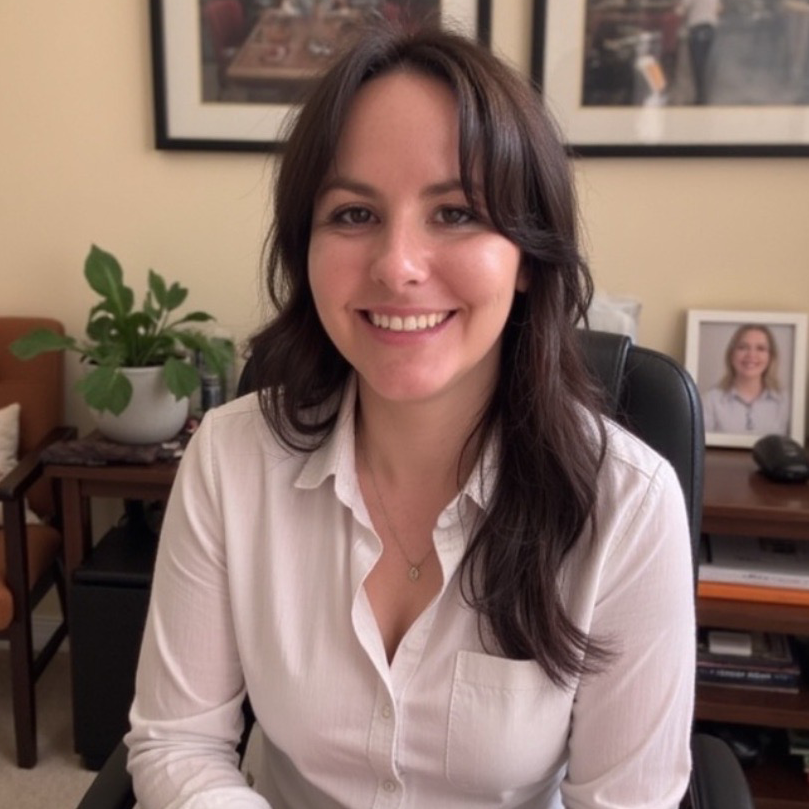
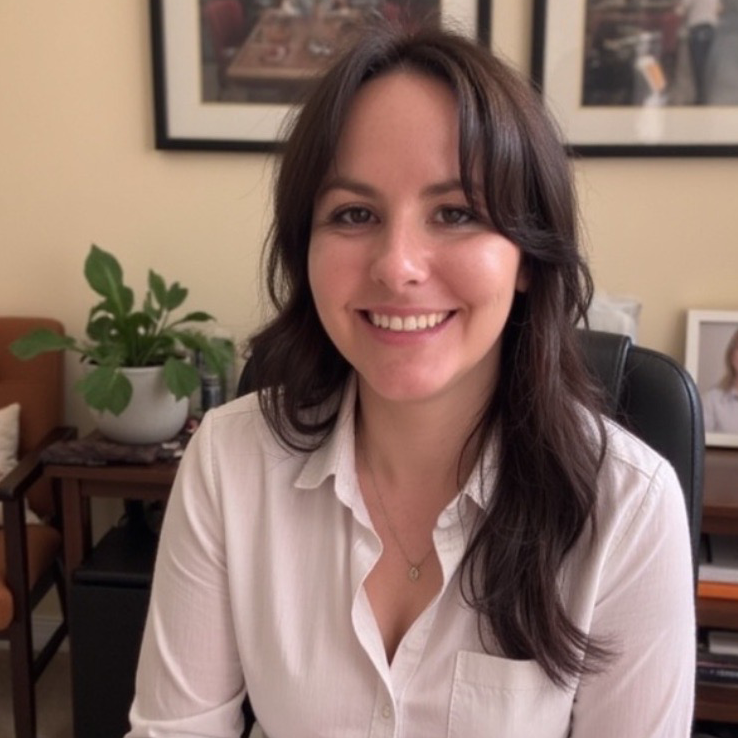
change portrait to be cropped and a circle instead of rounded square, update css with new class name and remove the old one

diff --git a/css/style.css b/css/style.css
@@ -249,12 +249,6 @@ section {
   align-items: center;
 }
 
-.about-image img {
-  width: 100%;
-  border-radius: 1rem;
-  box-shadow: 0 4px 6px rgba(0, 0, 0, 0.1);
-}
-
 .about-text h2 {
   font-size: 2rem;
   margin-bottom: 1.5rem;
@@ -652,10 +646,6 @@ section {
     font-size: 2rem;
   }
 
-  .about-image {
-    max-width: 300px;
-    margin: 0 auto;
-  }
 }
 
 @media (max-width: 480px) {
@@ -671,4 +661,21 @@ section {
   .blog-grid {
     grid-template-columns: 1fr;
   }
+}
+
+.portrait {
+  width: 400px;
+  height: 400px;
+  margin: 0 auto 3rem;
+  display: block;
+  box-shadow: 0 4px 6px rgba(0, 0, 0, 0.1);
+  border-radius: 50%;
+  overflow: hidden;
+}
+
+.portrait img {
+  width: 100%;
+  height: 100%;
+  object-fit: cover;
+  border-radius: 50%;
 }

diff --git a/index.html b/index.html
@@ -78,7 +78,7 @@
     <section id="about" class="about">
       <div class="container">
         <div class="about-content">
-          <div class="about-image">
+          <div class="portrait">
             <img src="img/profile.png" alt="Profile Picture" />
           </div>
           <div class="about-text">
